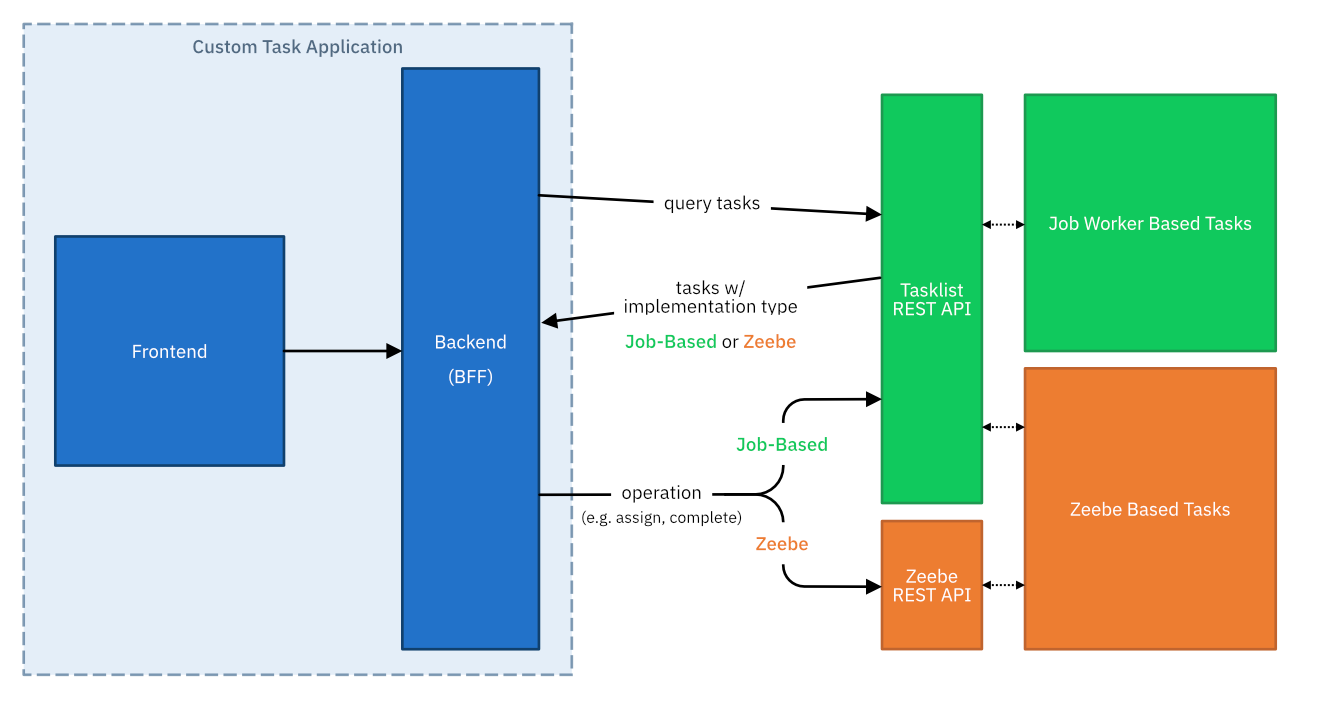
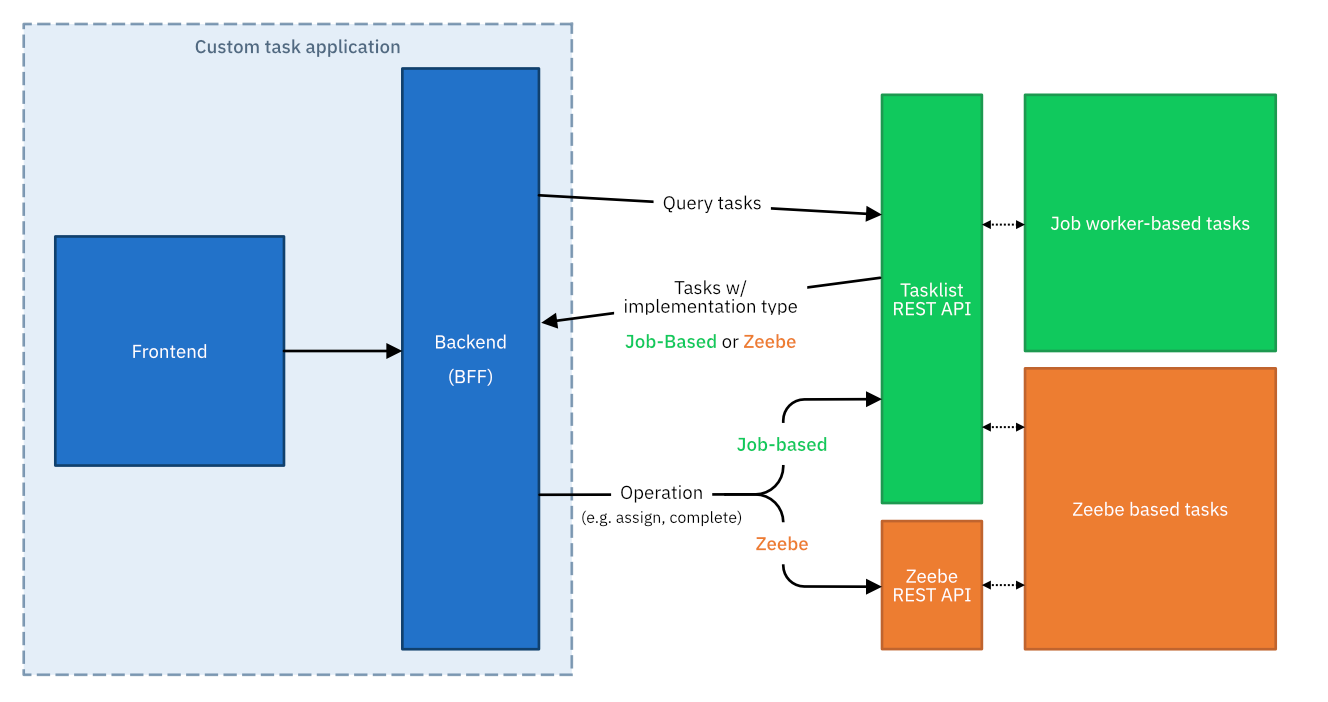
feat: incorporate review feedback, fix hyphenation

diff --git a/docs/guides/migrate-to-zeebe-user-tasks.md b/docs/guides/migrate-to-zeebe-user-tasks.md
@@ -1,7 +1,7 @@
 ---
 id: migrate-to-zeebe-user-tasks
 title: Migrate to Zeebe user tasks
-description: "Migrating user tasks from job-based to Zeebe implementation"
+description: "Learn how to migrate job worker-based user tasks to Zeebe-based tasks."
 ---
 
 import DocCardList from '@theme/DocCardList';
@@ -18,15 +18,15 @@ import ZeebeTaskSelectionImg from './assets/zeebe-user-task-selection.png';
 Camunda 8.5 introduces a new [user task](/docs/components/modeler/bpmn/user-tasks/user-tasks.md) implementation type: Zeebe user tasks.
 Zeebe user tasks have several benefits, including:
 
-- Running directly on the automation engine
-- Removing dependencies and round trips to Tasklist
-- A more powerful API
+- Running directly on the automation engine for high performance.
+- Removing dependencies and round trips to Tasklist.
+- A more powerful API that supports the full task lifecycle.
 
 In this guide, you will learn:
 
-- Under which circumstances and when you should migrate
-- Estimating the impact on a project
-- The steps you need to take for a successful migration without interrupting your operations
+- Under which circumstances and when you should migrate.
+- How to estimate the impact on a project.
+- The steps you need to take for a successful migration without interrupting your operations.
 
 ## Decide on your migration path
 
@@ -53,7 +53,7 @@ Learn the differences between both task types and make an informed decision, and
     <tr>
         <th></th>
         <th>
-            <div>Job-worker based user tasks</div>
+            <div>Job worker-based user tasks</div>
             <TableTextSmall>Existing implementation</TableTextSmall>
         </th>
         <th>
@@ -115,7 +115,7 @@ Learn the differences between both task types and make an informed decision, and
         </td>
         <td>
             <YesItem />
-            <TableTextSmall>Full lifecycle events incl. custom actions</TableTextSmall>
+            <TableTextSmall>Full lifecycle events including custom actions</TableTextSmall>
         </td>
     </tr>
     <tr>
@@ -134,7 +134,7 @@ Learn the differences between both task types and make an informed decision, and
         <td><NoItem /></td>
         <td>
             <YesItem />
-            <TableTextSmall>Custom actions can be defined on any operation excl. unassign (DELETE assignment, send update beforehand)</TableTextSmall>
+            <TableTextSmall>Custom actions can be defined on any operation excluding unassign (DELETE assignment, send update beforehand)</TableTextSmall>
         </td>
     </tr>
     <tr>
@@ -173,7 +173,7 @@ We recommend you migrate process-by-process, allowing you to thoroughly test the
 1. Open a diagram you want to migrate.
 2. Click on a user task.
 3. Check if the task has an embedded form.
-   - If a form is embedded, [transform it into a linked form](../components/modeler/bpmn/user-tasks/user-tasks.md#camunda-form-linked) before you change the task type implementation. Use the undo function if you accidentally removed your embedded form.
+   - If a form is embedded, [transform it into a linked form](../components/modeler/bpmn/user-tasks/user-tasks.md#camunda-form-linked) before you change the task type implementation. Press `Ctrl+Z` or `⌘+Z` to undo if you accidentally removed your embedded form.
 4. Open the **Implementation** section in the properties panel.
 5. Click the **Type** dropdown and select **Zeebe user task**. The linked form or external form reference will be preserved.
 
@@ -217,12 +217,12 @@ Operations on Zeebe user tasks which modify the task state have to be performed 
     </tr>
     <tr>
         <th style={{ textAlign: "end" }}>Change task assignment</th>
-        <td><span style={{ color: "green" }}>✔</span> Job-based tasks</td>
+        <td><span style={{ color: "green" }}>✔</span> Job worker-based tasks</td>
         <td><span style={{ color: "green" }}>✔</span> Zeebe tasks</td>
     </tr>
     <tr>
         <th style={{ textAlign: "end" }}>Complete task</th>
-        <td><span style={{ color: "green" }}>✔</span> Job-based tasks</td>
+        <td><span style={{ color: "green" }}>✔</span> Job worker-based tasks</td>
         <td><span style={{ color: "green" }}>✔</span> Zeebe tasks</td>
     </tr>
     <tr>
@@ -231,7 +231,7 @@ Operations on Zeebe user tasks which modify the task state have to be performed 
         <td><span style={{ color: "green" }}>✔</span> Zeebe tasks</td>
     </tr>
     <tr>
-        <th style={{ textAlign: "end" }}>Safe + retrieve draft variables</th>
+        <th style={{ textAlign: "end" }}>Safe and retrieve draft variables</th>
         <td><span style={{ color: "green" }}>✔</span> All types</td>
         <td style={{color: "gray"}}>← Use Tasklist API</td>
     </tr>
@@ -336,7 +336,7 @@ The following table outlines the respective endpoints. Click the endpoints to fo
         </td>
     </tr>
     <tr>
-        <th style={{ textAlign: "end" }}>Safe + retrieve draft variables</th>
+        <th style={{ textAlign: "end" }}>Safe and retrieve draft variables</th>
         <td>
             <a href="/api/tasklist/docs/save-draft-task-variables/">
                 <code>POST /tasks/:taskId/variables</code>
